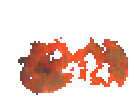
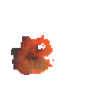
add more pics in to explosion

Changed region(s): [[0.0849, 0.3256, 0.9623, 0.8837]]

diff --git a/src/de/fhkiel/iue/oopming/GameScreen.java b/src/de/fhkiel/iue/oopming/GameScreen.java
@@ -14,7 +14,7 @@ public class GameScreen {
 
     Position expos = new Position();
     boolean explotion = false;
-    int explosionImageFrame = 8;
+    int explosionImageFrame = 20;
     PImage[] explosionImage = new PImage[explosionImageFrame];
     Player player;
     List gegners;
@@ -74,8 +74,9 @@ public class GameScreen {
                 Geschoss geschoss = (Geschoss) geschosse.get(j);
                 if (geschoss.istErschossen(gegner1, geschoss)) {
                     explotion = true;
-                    expos.setY(gegner1.getGcenter().getY());
-                    expos.setX(gegner1.getGcenter().getX());
+                    expos = gegner1.getGcenter();
+//                    expos.setY(gegner1.getGcenter().getY());
+//                    expos.setX(gegner1.getGcenter().getX());
                     gegners.remove(gegner1);
                     geschosse.remove(geschoss);
                     gegners.add(new Gegner());
@@ -88,17 +89,15 @@ public class GameScreen {
         player.steuen(pApplet);
 
 
-
         if (explotion) {
 
-            pApplet.image(explosionImage[u],expos.getX(),expos.getY());
+            pApplet.image(explosionImage[u], expos.getX(), expos.getY());
             u++;
-            if(u==7){
-                u=0;
+            if (u == explosionImageFrame - 1) {
+                u = 0;
                 explotion = false;
             }
         }
-
 
 
     }
